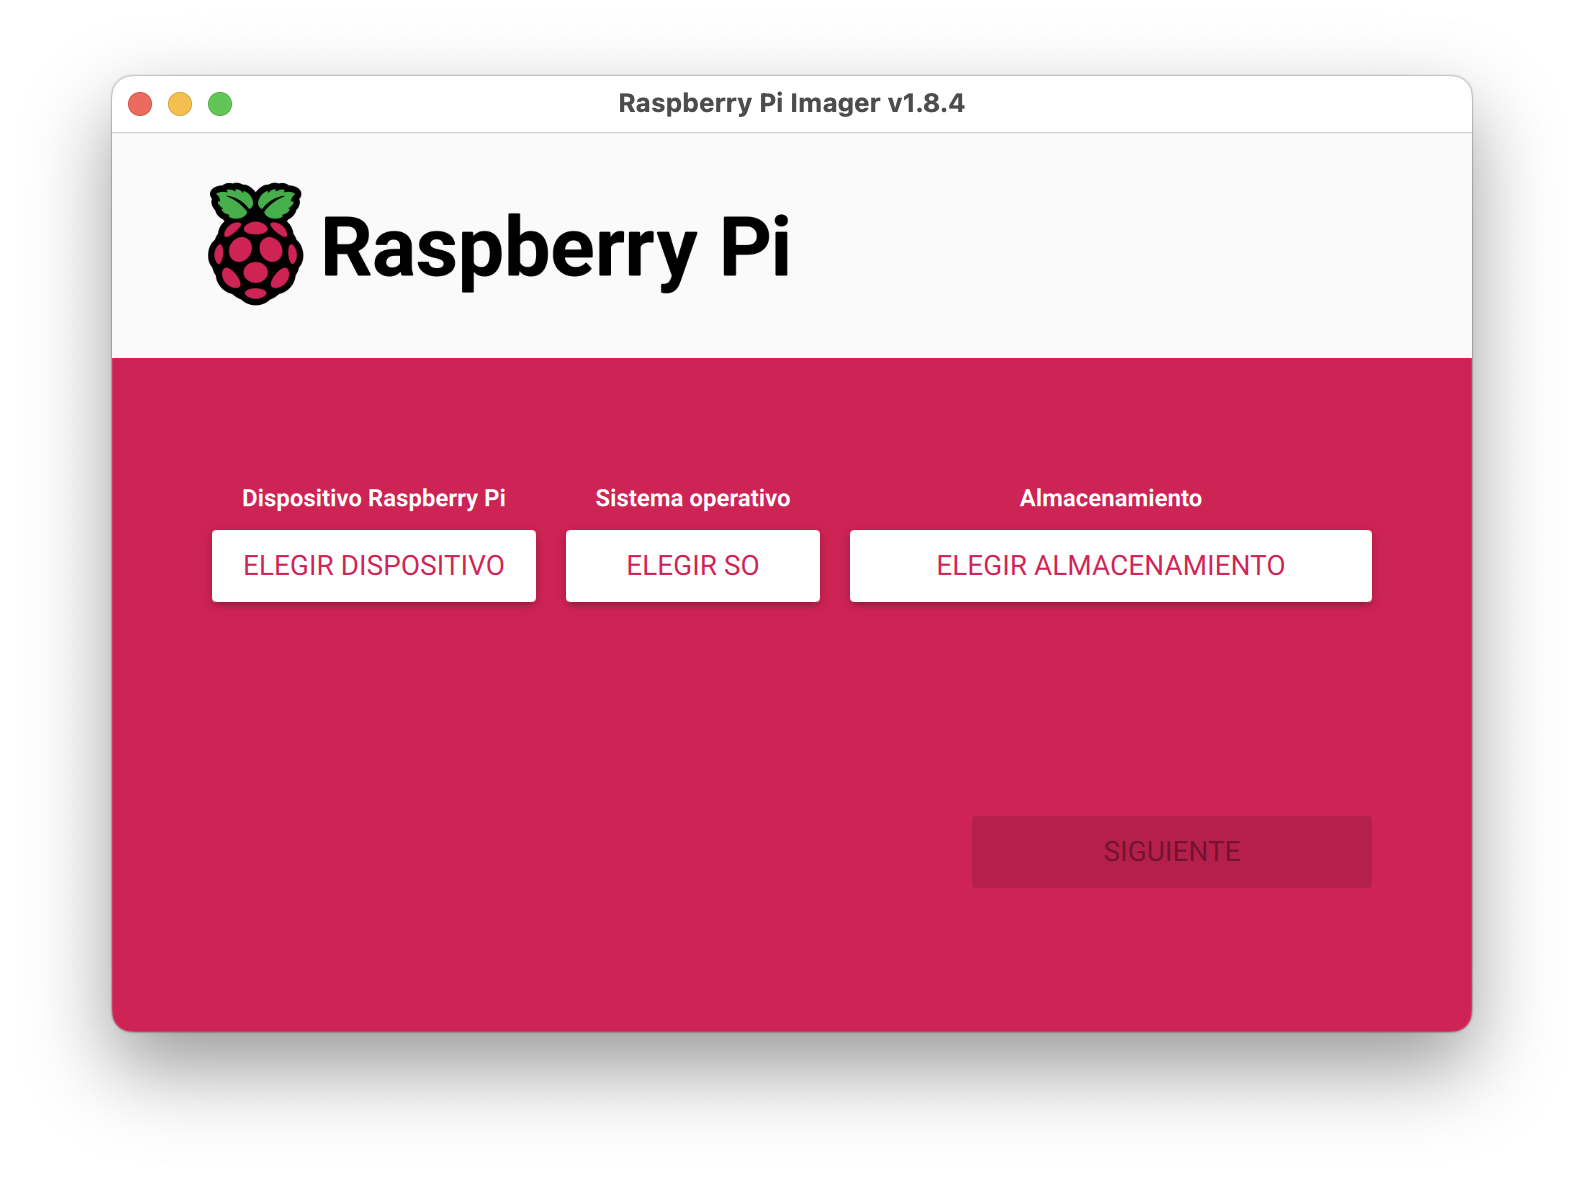
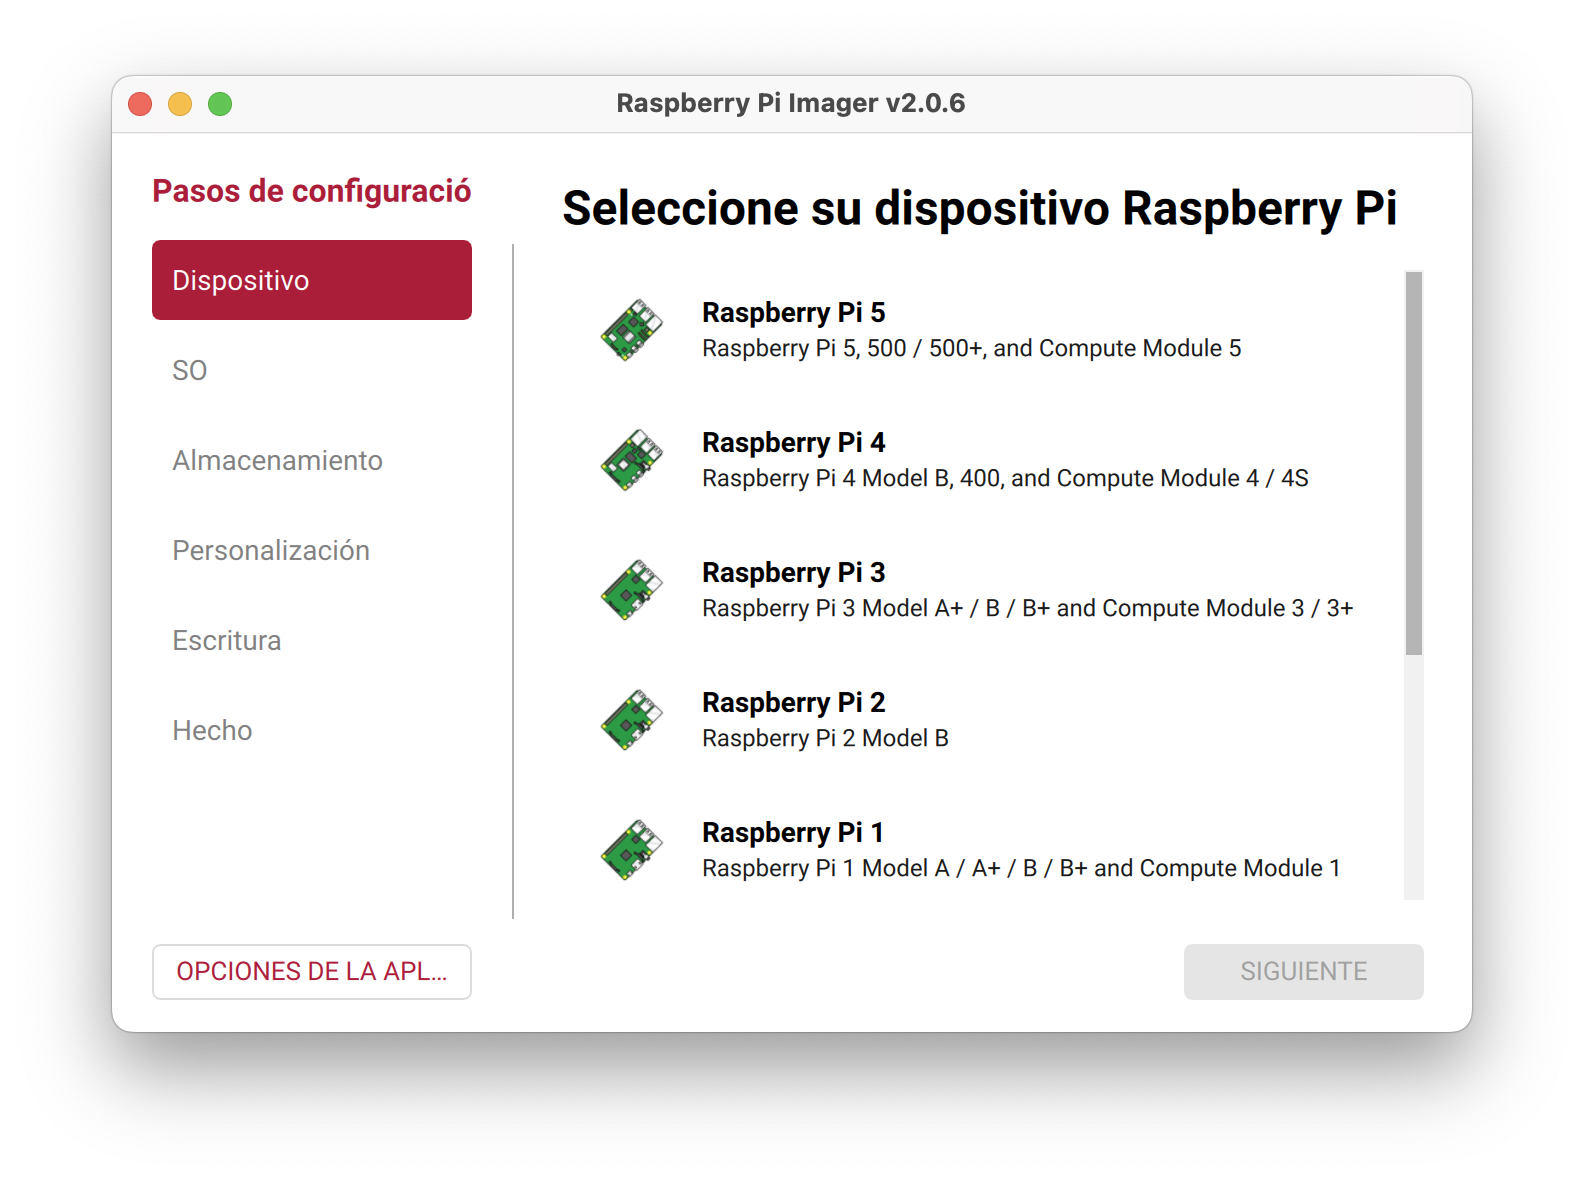
Update images (spanish)

diff --git a/content/es/help/copy-the-disk-image/index.md b/content/es/help/copy-the-disk-image/index.md
@@ -6,14 +6,14 @@ authors:
   - Eric Efrain Solano-Uscanga
 type: kb
 date: 2017-04-20
-lastmod: 2025-06-28
+lastmod: 2026-02-20
 description: Para copiar la imagen de disco de MoodleBox a una tarjeta SD, simplemente descarga la utilidad Raspberry Pi Imager y sigue estas instrucciones.
 slug: copiar-la-imagen-disco-en-una-tarjeta-sd
 categories_weight: 4
 categories:
   - Primeros pasos
 ---
-Para copiar el sistema MoodleBox en tu tarjeta microSD, le recomendamos utilizar la utilidad [Raspberry Pi Imager][imager]. Esta aplicación está publicada por la Fundación Raspberry Pi.
+Para copiar el sistema MoodleBox en tu tarjeta microSD, utiliza la utilidad [Raspberry Pi Imager][imager]. Esta aplicación está publicada por la Fundación Raspberry Pi.
 
 ### Cómo proceder
 
@@ -29,10 +29,10 @@ Para copiar el sistema MoodleBox en tu tarjeta microSD, le recomendamos utilizar
    - Marque la casilla __Establecer nombre de anfitrión__ y indique el __nombre de host__, por ejemplo _moodlebox_
    - Marque la casilla __Establecer nombre de usuario y contraseña__ y indique el __nombre de usuario__ y la __contraseña__, por ejemplo _moodlebox_ y _MoodleBox4$_.
    - __No marque__ las demás casillas (_Configurar LAN inalámbrica_ y _Establecer ajustes regionales_).
-   {{< figure src="rpi-imager-os-custom-es.png" alt="Configuración de Raspberry Pi Imager" class="centered-image" width="700" >}}
 1. En la pestaña _Servicios_, marque la casilla __Activar SSH__ y la opción __Usar autenticación por contraseña__.
 1. Haga clic en __Guardar__ y responda __Sí__ a la pregunta __¿Desea aplicar los ajustes de personalización del SO?__
 1. Responda __Sí__ cuando se le pregunte si desea continuar, borrando todos los datos de su tarjeta SD.
+   {{< figure src="rpi-imager-warning-es.png" alt="Aviso de Raspberry Pi Imager" class="centered-image" width="700" >}}
 
 La aplicación __Raspberry Pi Imager__ descargará y flasheará la última versión de la imagen de disco de MoodleBox en tu tarjeta microSD. Esto puede tardar varios minutos dependiendo de la velocidad de tu conexión a Internet y de la tarjeta SD.
 
